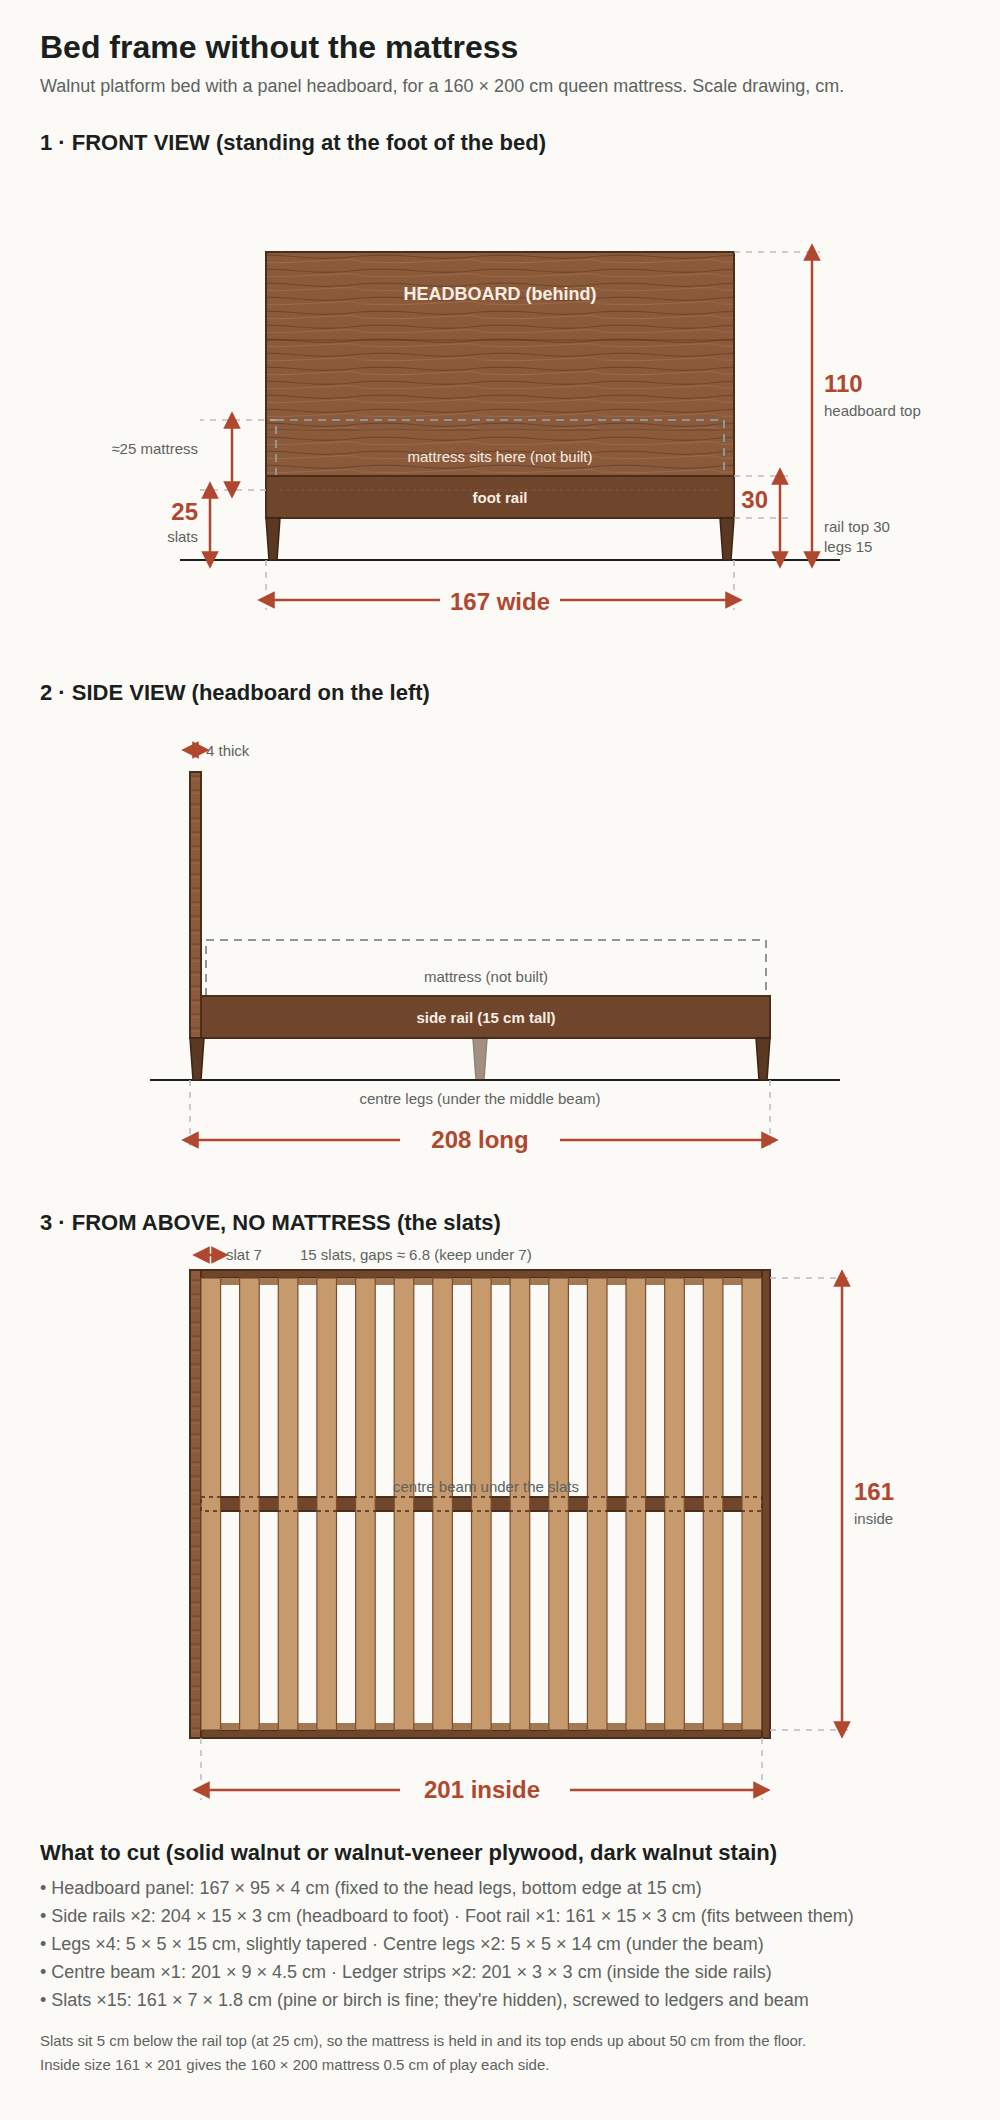
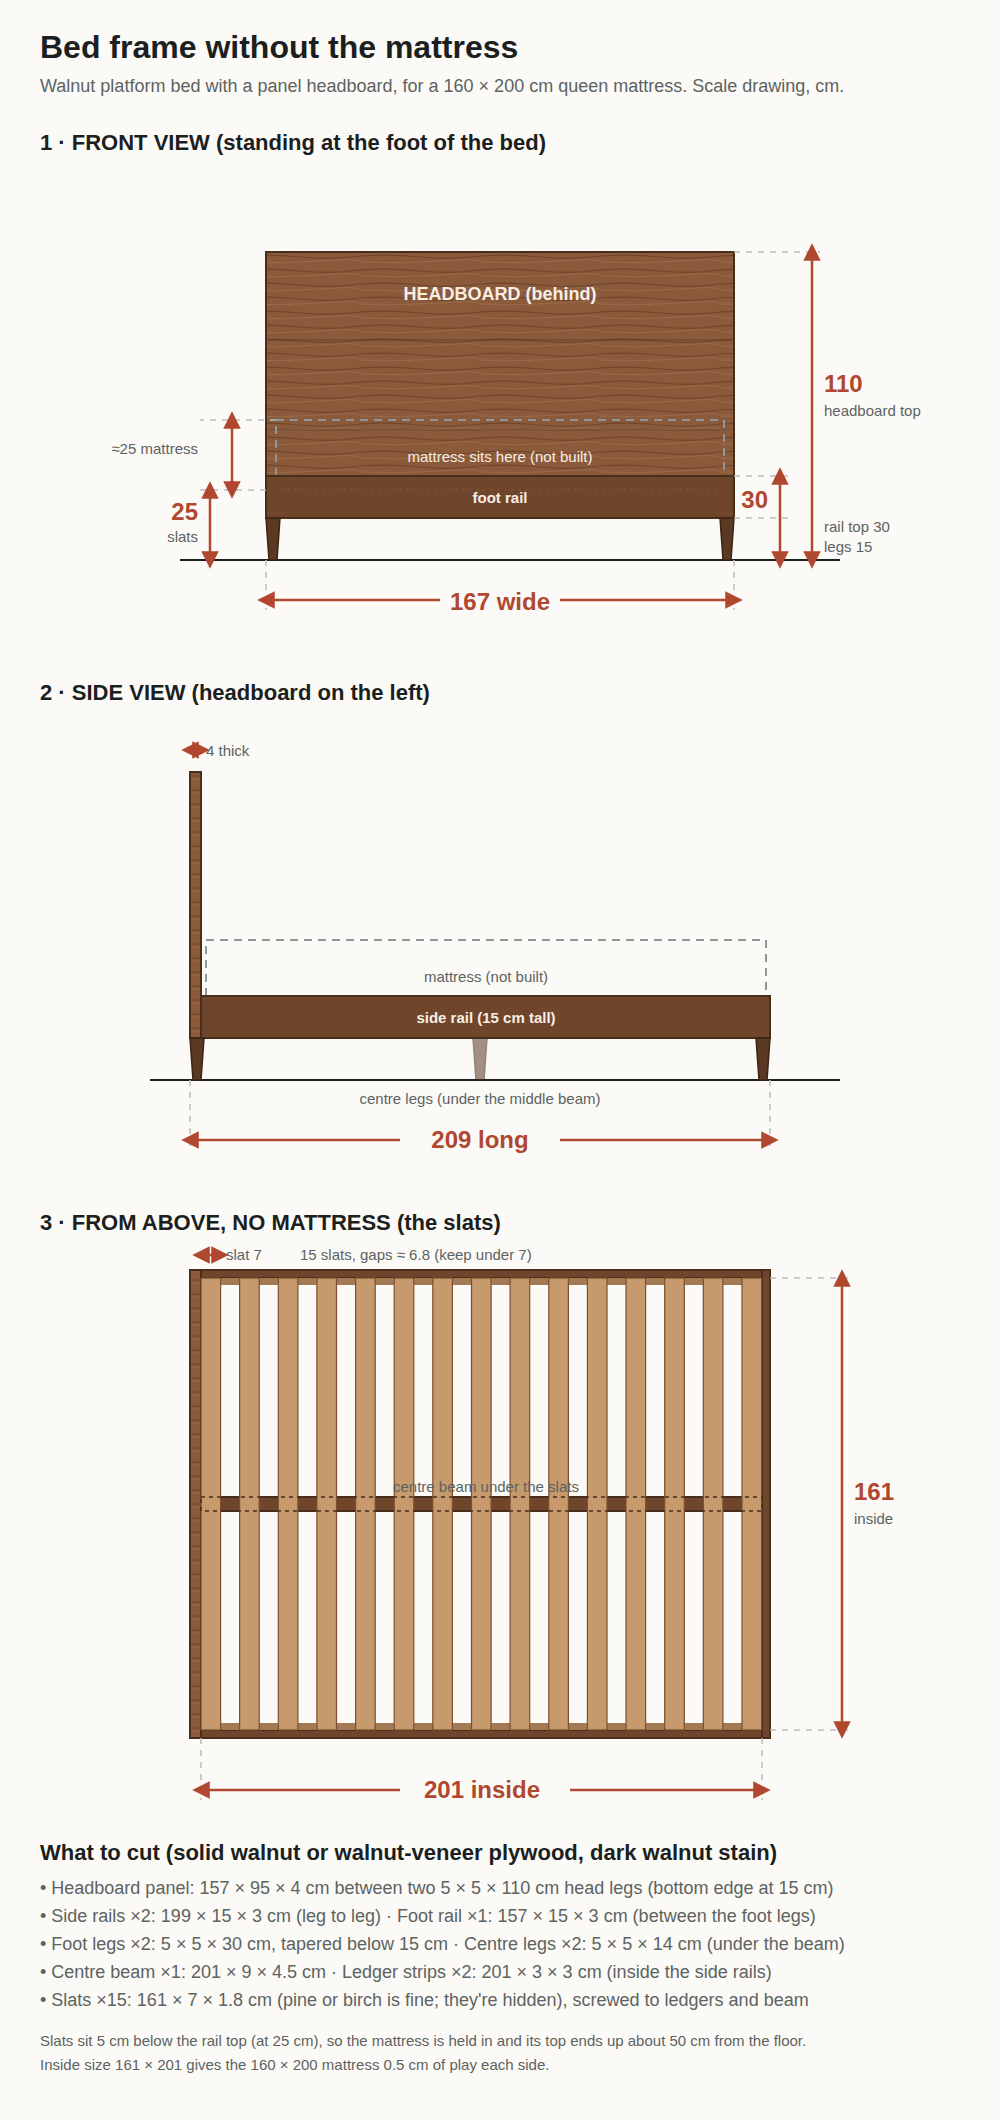
Add bed build guide; correct headboard, foot rail and side rail lengths
Claude-Session: https://claude.ai/code/session_01Phg5VMR49TKrcgwNQn2HSx

Changed region(s): [[0.062, 0.8717, 0.837, 0.934]]

diff --git a/plan/BED_BUILD_GUIDE.md b/plan/BED_BUILD_GUIDE.md
@@ -1,0 +1,110 @@
+# How to build the walnut bed frame
+
+Queen platform bed for a **160 × 200 cm** mattress, as in
+`designs/…bare-bed-frame.jpg`. Dimensions are in `plan/bed-frame-sketch.png`.
+
+**Finished size:** 167 cm wide × 209 cm long. Headboard 110 cm high, rail top
+30 cm, slats at 25 cm, mattress top about 50 cm.
+
+**Time:** about 2 days, including stain drying. **Skill:** basic DIY, or give this
+sheet to a carpenter.
+
+---
+
+## 1. Materials (cut list)
+
+| Qty | Part | Size (cm) | Material |
+|---|---|---|---|
+| 1 | Headboard panel | 157 × 95 × 4 (fits between the two head legs; or 2 × 1.8 cm sheets glued) | Walnut-veneer plywood, or solid walnut boards glued edge to edge |
+| 2 | Head legs | 5 × 5 × 110 (corner posts either side of the headboard) | Solid walnut or oak, stained |
+| 2 | Foot legs | 5 × 5 × 30, tapered to 3.5 cm at the floor for the bottom 15 cm | Solid walnut or oak |
+| 2 | Side rails | 199 × 15 × 3 (between head legs and foot legs) | Solid walnut or oak |
+| 1 | Foot rail | 157 × 15 × 3 (between the two foot legs) | Solid walnut or oak |
+| 1 | Centre beam | 201 × 9 × 4.5 | Pine or spruce (hidden) |
+| 2 | Centre legs | 5 × 5 × 14 | Pine (hidden) |
+| 2 | Support strips (ledgers) | 201 × 3 × 3 | Pine |
+| 15 | Slats | 161 × 7 × 1.8 | Pine or birch |
+
+**Hardware:**
+- 4 × **bed-rail brackets** (hook-in type), so the bed comes apart to move it and fits through the 80 cm corridor
+- About 40 × 4 × 40 mm wood screws (ledgers and slats)
+- 8 × 5 × 70 mm screws (headboard to head legs)
+- 2 × 8 mm dowels or 2 metal corner braces (centre beam to head and foot)
+- Wood glue, 4 felt pads
+
+**Finish:** dark walnut stain (skip it if you use real walnut), then 2 coats of matte
+**hardwax oil** or water-based matte polyurethane.
+
+**Tools:** drill/driver, jigsaw or circular saw (or have the timber yard cut
+everything to size), sander with 120 and 180 grit, clamps, tape measure, square, level.
+
+> Easiest route: order every piece **cut to size** at the timber yard using the
+> table above. Then it's only sanding, staining and screwing.
+
+---
+
+## 2. Steps
+
+**1. Sand and stain everything first.**
+- Sand all visible parts with 120 grit, then 180 grit.
+- Round every edge very slightly.
+- Stain, then oil or varnish. Two thin coats, sanding lightly between them.
+- Let it dry overnight.
+
+**2. Make the headboard.**
+- Stand the two **110 cm head legs** 157 cm apart, so the outside width is 167 cm.
+- Fit the **157 cm headboard panel** between them, flush with the back of the legs. Its bottom edge sits **15 cm** off the floor and its top is level with the leg tops at 110 cm.
+- Glue, then screw through each leg into the panel edge: 4 × 70 mm screws per leg, or use dowels for no visible screws.
+
+**3. Tape the foot legs.**
+- Mark 15 cm up from the bottom on each foot leg.
+- The taper runs from that mark down to 3.5 cm at the floor, on the two inside faces.
+- Cut the taper, then sand.
+
+**4. Fit the rail brackets.**
+- On each end of both **199 cm** side rails, screw the hook half of a bed-rail bracket. Keep each rail flush with the outer face of the legs.
+- On the head legs and foot legs, fit the matching plates so that the **rail top sits at 30 cm** from the floor, meaning the rail spans 15 to 30 cm.
+
+**5. Build the foot end.**
+- Glue and screw the **foot rail (157 cm)** between the two foot legs, flush with their outside faces, at 15 to 30 cm high.
+- Use 2 × 70 mm screws per end through the legs, or pocket screws.
+
+**6. Fix the ledgers.**
+- Screw a **3 × 3 cm support strip** along the inside of each side rail.
+- Its top edge sits **6.8 cm below the rail top**: 5 cm of drop for the mattress plus the 1.8 cm slat. That puts the slats at 25 cm.
+- Use 4 × 40 mm screws every 25 cm.
+
+**7. Stand it up.**
+- Hook the side rails onto the headboard legs and the foot end.
+- Check it's square: the two diagonals should measure the same.
+
+**8. Fit the centre beam.**
+- Run the **centre beam** down the middle, head to foot.
+- Its top must be level with the top of the ledgers.
+- Rest it on the **two 14 cm centre legs**, placed at roughly one-third and two-thirds of the length.
+- Fix the ends to the headboard and foot rail with dowels or corner braces.
+
+**9. Lay the slats.**
+- Lay the **15 slats** across, starting 1 cm from the headboard.
+- Keep the gaps even at about 6.8 cm, and never more than 7 cm, or the mattress sags.
+- Use a 6.8 cm spacer block.
+- Screw each slat once at each end into the ledgers and once into the centre beam.
+
+**10. Finish off.**
+- Put felt pads under all six legs to protect your floor.
+- Drop in the 160 × 200 mattress. It should have about 0.5 cm of play on each side.
+
+---
+
+## 3. Checks before using it
+
+- [ ] Rail top at 30 cm and slats at 25 cm, all round
+- [ ] Both diagonals equal (frame is square)
+- [ ] No slat gap bigger than 7 cm
+- [ ] Centre legs touch the floor (no rocking)
+- [ ] It doesn't wobble when you push the headboard
+
+**Rough cost:**
+- About **$250–450** in materials, with walnut-veneer ply and oak rails
+- About **$600–1,000** in solid walnut
+- If a carpenter builds it, add their labour.
